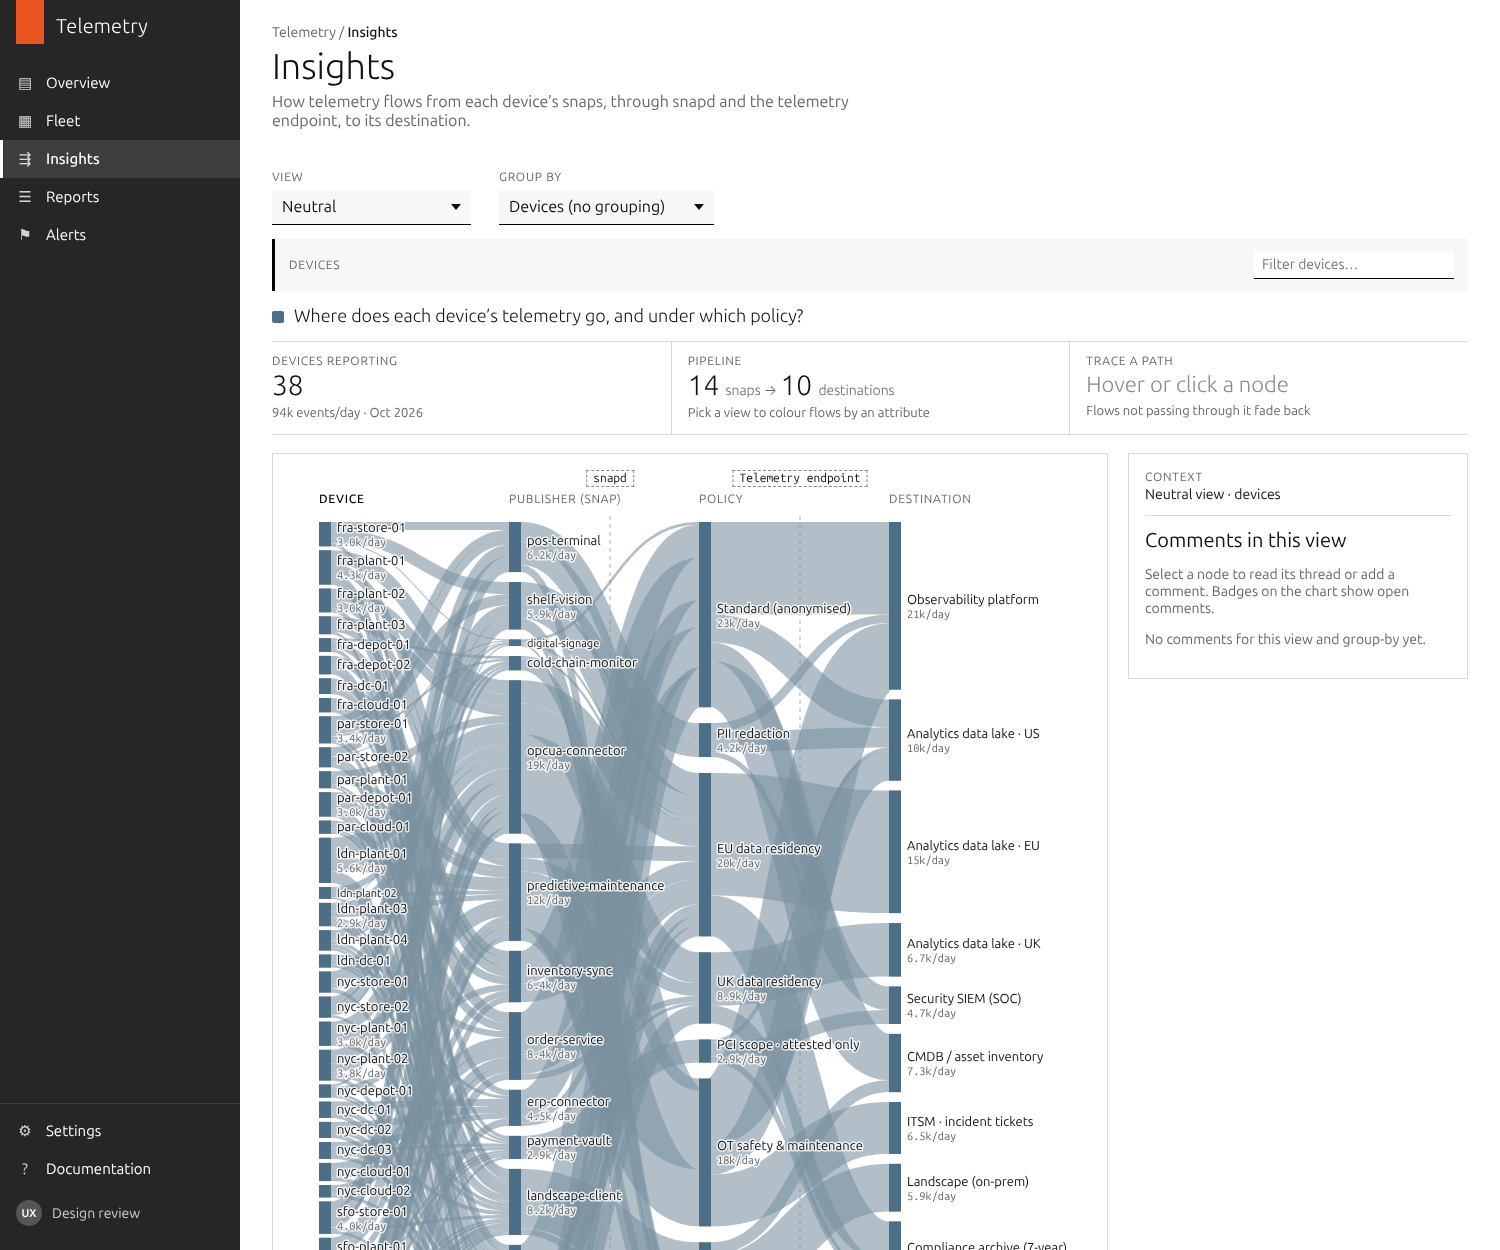
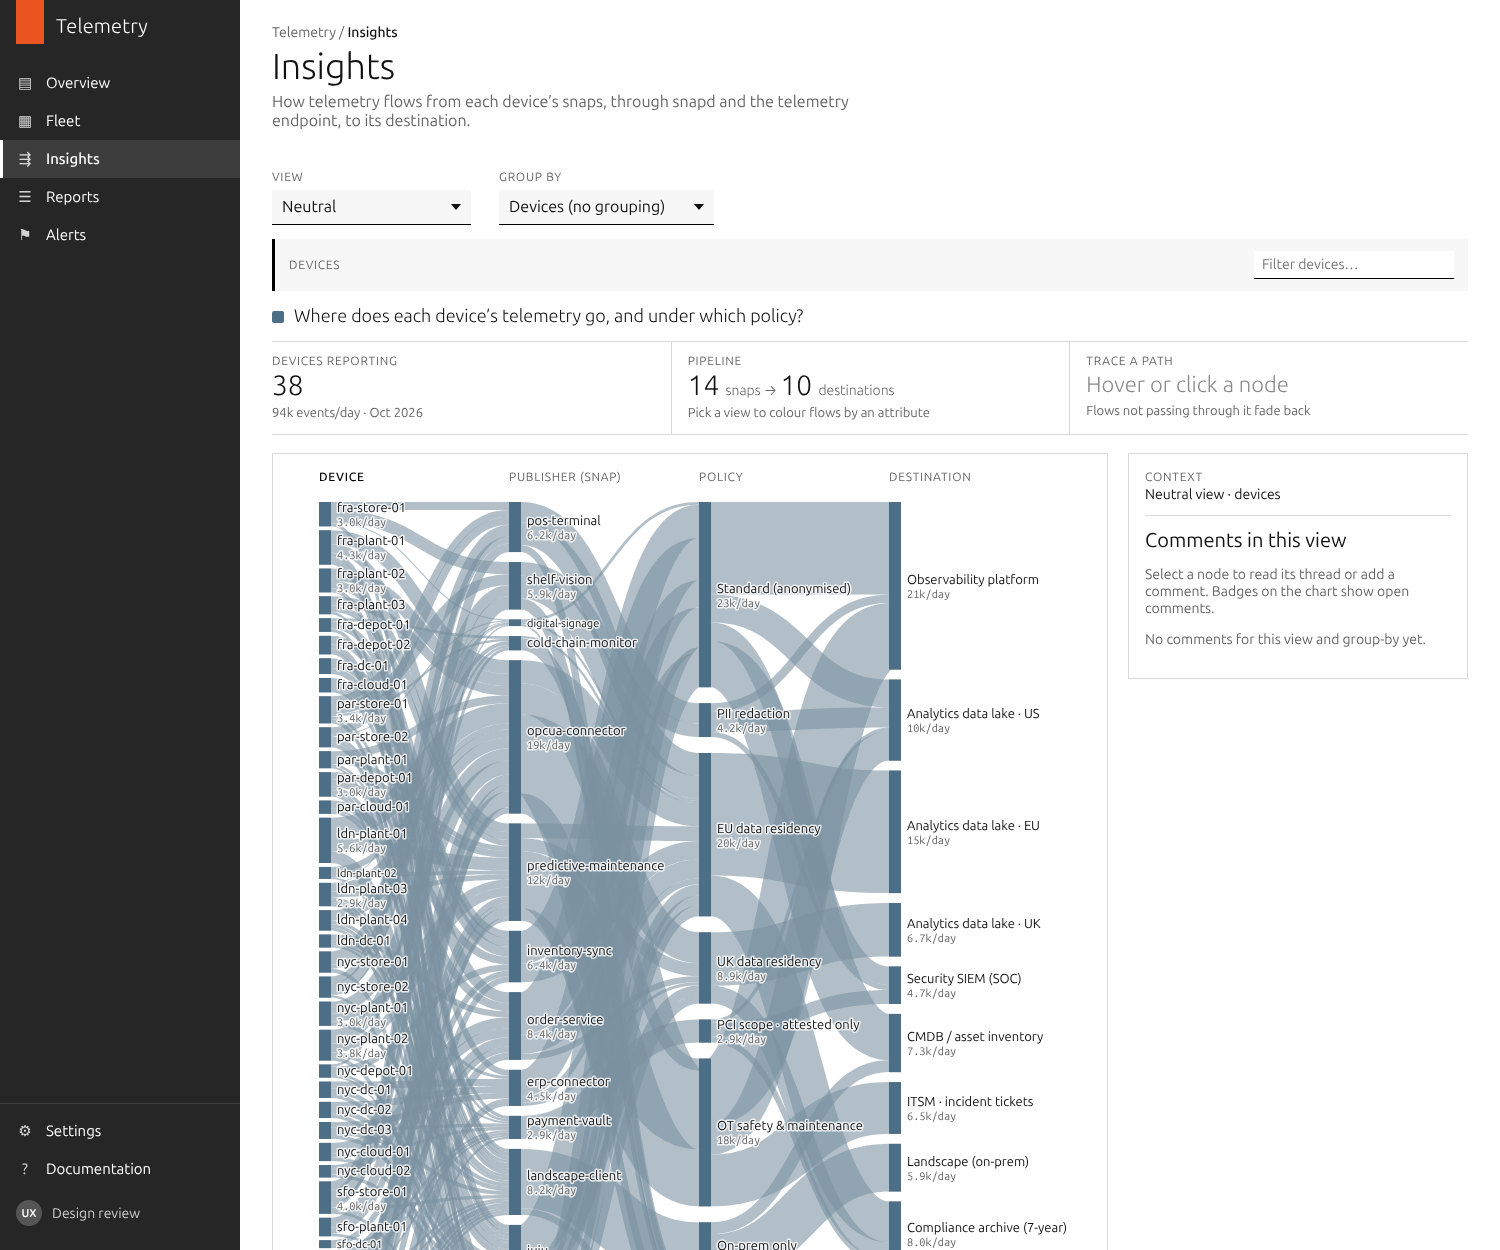
Remove snapd and telemetry endpoint markers from the chart
Drops the dashed lanes and their labels between columns and closes up
the header space they used. Docs and CLAUDE.md updated.

Claude-Session: https://claude.ai/code/session_0156BKrAD5wHGfcWHmuamSMf

Changed region(s): [[0.2147, 0.3744, 0.7053, 1.0], [0.6133, 0.4368, 0.6747, 0.4992], [0.6133, 0.6552, 0.6747, 0.6864]]

diff --git a/css/app.css b/css/app.css
@@ -117,7 +117,7 @@ button, input, select, textarea { font: inherit; color: inherit; }
 .p-card { border: 1px solid var(--border); background: #fff; }
 .insights__chart { padding: 16px 16px 8px; min-width: 0; }
 .chart-wrap { width: 100%; overflow-x: auto; }
-.chart-legend { position: relative; height: 42px; margin-bottom: 4px; font-size: .75rem; text-transform: uppercase; letter-spacing: .06em; color: var(--muted); }
+.chart-legend { position: relative; height: 22px; margin-bottom: 4px; font-size: .75rem; text-transform: uppercase; letter-spacing: .06em; color: var(--muted); }
 .chart-legend__col { position: absolute; top: 0; white-space: nowrap; }
 .chart-legend__col.is-first { color: var(--ink); font-weight: 500; }
 
@@ -265,12 +265,6 @@ button, input, select, textarea { font: inherit; color: inherit; }
 .tooltip__attrs dd.is-view { color: #ffb38f; font-weight: 600; }
 .tooltip__hist { margin-top: 6px; padding-top: 6px; border-top: 1px solid #333; color: #ddd; font-size: .75rem; }
 
-/* Shared pipeline steps (snapd, telemetry endpoint) */
-.sk-waypoint { stroke: #6b6b6b; stroke-width: 1; stroke-dasharray: 4 4; opacity: .55; }
-.chart-legend__wp { position: absolute; top: 0; transform: translateX(-50%); display: flex; flex-direction: column; align-items: center; text-transform: none; letter-spacing: 0; line-height: 1.25; white-space: nowrap; }
-.chart-legend__wp strong { font-family: "Ubuntu Sans Mono", ui-monospace, monospace; font-weight: 500; font-size: .75rem; color: var(--text); border: 1px dashed #8a8a8a; padding: 0 6px; background: #fff; }
-.chart-legend__wp span { font-size: .6875rem; color: var(--faint); }
-.chart-legend__col { top: 22px; }
 
 /* Mobile chrome (hidden on desktop) */
 .l-topbar { display: none; align-items: center; gap: 10px; background: var(--nav); color: #fff; height: 48px; padding: 0 12px 0 4px; position: sticky; top: 0; z-index: 20; }

diff --git a/js/app.js b/js/app.js
@@ -180,7 +180,6 @@
 
     el.svg.classList.toggle('is-neutral', isNeutral());
     S.render(el.svg, L, {
-      waypoints: waypoints(stg, L),
       palette: palette(),
       isolate: state.isolate[state.view] || null,
       focusId: state.hover || state.selected,
@@ -197,21 +196,9 @@
     if (t.comments) drawComments(); else el.comments.hidden = true;
   }
 
-  // x positions of shared pipeline steps, midway between the columns they sit between
-  function waypoints(stg, L) {
-    return TL.WAYPOINTS.map(function (w) {
-      const i = stg.indexOf(w.after);
-      const a = L.nodes.filter(function (n) { return n.col === i; })[0];
-      const b = L.nodes.filter(function (n) { return n.col === i + 1; })[0];
-      return a && b ? Object.assign({ x: (a.x + a.w + b.x) / 2 }, w) : null;
-    }).filter(Boolean);
-  }
   function drawLegend(stg, L) {
     el.legend.style.width = L.width + 'px';
-    const wps = waypoints(stg, L).map(function (w) {
-      return '<span class="chart-legend__wp" style="left:' + w.x + 'px" title="' + esc(w.sub) + '"><strong>' + esc(w.label) + '</strong></span>';
-    }).join('');
-    el.legend.innerHTML = wps + stg.map(function (d, i) {
+    el.legend.innerHTML = stg.map(function (d, i) {
       const n = L.nodes.filter(function (x) { return x.col === i; })[0];
       const label = d === 'device' ? 'Device' : TL.DIMENSIONS[d].label;
       return '<span class="chart-legend__col' + (i === stg.length - 1 ? ' is-last' : '') + (i === 0 ? ' is-first' : '') + '" style="left:' + (n ? n.x : 0) + 'px">' + esc(label) + '</span>';

diff --git a/js/data.js b/js/data.js
@@ -466,11 +466,6 @@ window.TL = window.TL || {};
   Object.assign(TL, {
     MONTHS: MONTHS, monthLabel: monthLabel,
     ATTRIBUTES: ATTRIBUTES, DIMENSIONS: DIMENSIONS, ROUTING: ROUTING, PALETTE: PALETTE, HEALTH_COMPONENTS: HEALTH_COMPONENTS, HEALTH_RAMP: HEALTH_RAMP,
-    // shared infrastructure every flow passes through (drawn between columns)
-    WAYPOINTS: [
-      { after: 'publisher', label: 'snapd', sub: 'one stream per device' },
-      { after: 'policy', label: 'Telemetry endpoint', sub: 'demultiplex · route · forward' }
-    ],
     DEVICES: DEVICES, VIEWS: VIEWS, GROUP_BYS: GROUP_BYS,
     PIPELINE: ['publisher', 'policy', 'destination'],
     snapshot: snapshot, deviceAt: deviceAt,

diff --git a/js/sankey.js b/js/sankey.js
@@ -182,10 +182,6 @@
       return out;
     }
     const parts = [];
-    // shared pipeline steps (snapd, telemetry endpoint) as dashed lanes behind the flows
-    (opts.waypoints || []).forEach(function (w) {
-      parts.push('<line class="sk-waypoint" x1="' + w.x + '" x2="' + w.x + '" y1="0" y2="' + L.height + '"/>');
-    });
     parts.push('<g class="sk-links">');
     L.links.forEach(function (l) {
       parts.push('<g class="sk-link' + (focusing ? ' is-focusing' : '') + (focusing && l.f < 0.01 ? ' is-dim' : '') + '" data-link="' + esc(l.key) + '">');

diff --git a/README.md b/README.md
@@ -12,7 +12,7 @@ A dependency-free prototype of the **Insights** page for Ubuntu telemetry. It sh
 2. snapd enforces naming and on-device rules, then merges all snaps into **one stream** to the **telemetry endpoint**.
 3. The endpoint splits the stream back out by snap, applies routing policy and forwards each flow to its destination.
 
-snapd and the endpoint are drawn as dashed markers between the columns. Every flow passes through them, so neither needs a column of its own. Each policy rule records where it's applied: `at: 'snapd'` (on the device) or `at: 'endpoint'`.
+snapd and the endpoint aren't drawn in the chart. Every flow passes through them, so they'd add no information. Each policy rule records where it's applied: `at: 'snapd'` (on the device) or `at: 'endpoint'`.
 
 **Only column 1 changes.**
 - With **no group-by**, column 1 has one node per **device**.
@@ -120,7 +120,6 @@ Group-by can use any of these attributes, plus site, device type, region and Ubu
 ```
 ATTRIBUTES    { attr → { label, values: [{ id, label, color? }] } }   // device vocabulary; no colour = neutral
 PUBLISHERS / POLICIES / DESTINATIONS                                 // publishers are snaps (snap names)
-WAYPOINTS     [{ after: 'publisher'|'policy', label }]                // snapd, telemetry endpoint
 ROUTING       [{ id, at: 'snapd'|'endpoint', when: {attr|publisher: value|[values]}, policy, to: [[destination, share]] }]
               // ordered, first match wins — auditable and easy to change
 DEVICES       [{ id, attrs, extras, onboarded, scale, growth,

diff --git a/CLAUDE.md b/CLAUDE.md
@@ -1,6 +1,6 @@
 # Context for Claude sessions
 
-Prototype of the **Insights** page (Telemetry product): a Sankey shown as four demo tabs. See README.md for the data model.
+Prototype of the **Insights** page (Telemetry product): a single-page Sankey. See README.md for the data model.
 
 ## Telemetry architecture (as described by the product owner)
 - Every snap on a device sends its telemetry to **snapd**.
@@ -28,6 +28,7 @@ Prototype of the **Insights** page (Telemetry product): a Sankey shown as four d
 - No intro/description text and no "synthetic data" note under the page header.
 - **Group by** replaces the device column with that attribute's values (e.g. Juju 4.1 / 3.6 / none); publisher, policy and destination stay intact.
 - Single page, no tabs: view + group by + comments + timeline all available. Opens on Neutral view, devices ungrouped, "Compare to: nothing" (no deltas until chosen). "Reset comments" is a footer link.
+- No snapd / telemetry endpoint markers in the chart (removed at the user's request).
 - Columns top-aligned (top stream horizontal, others rise into it); flows fairly transparent.
 
 ## Deployment
